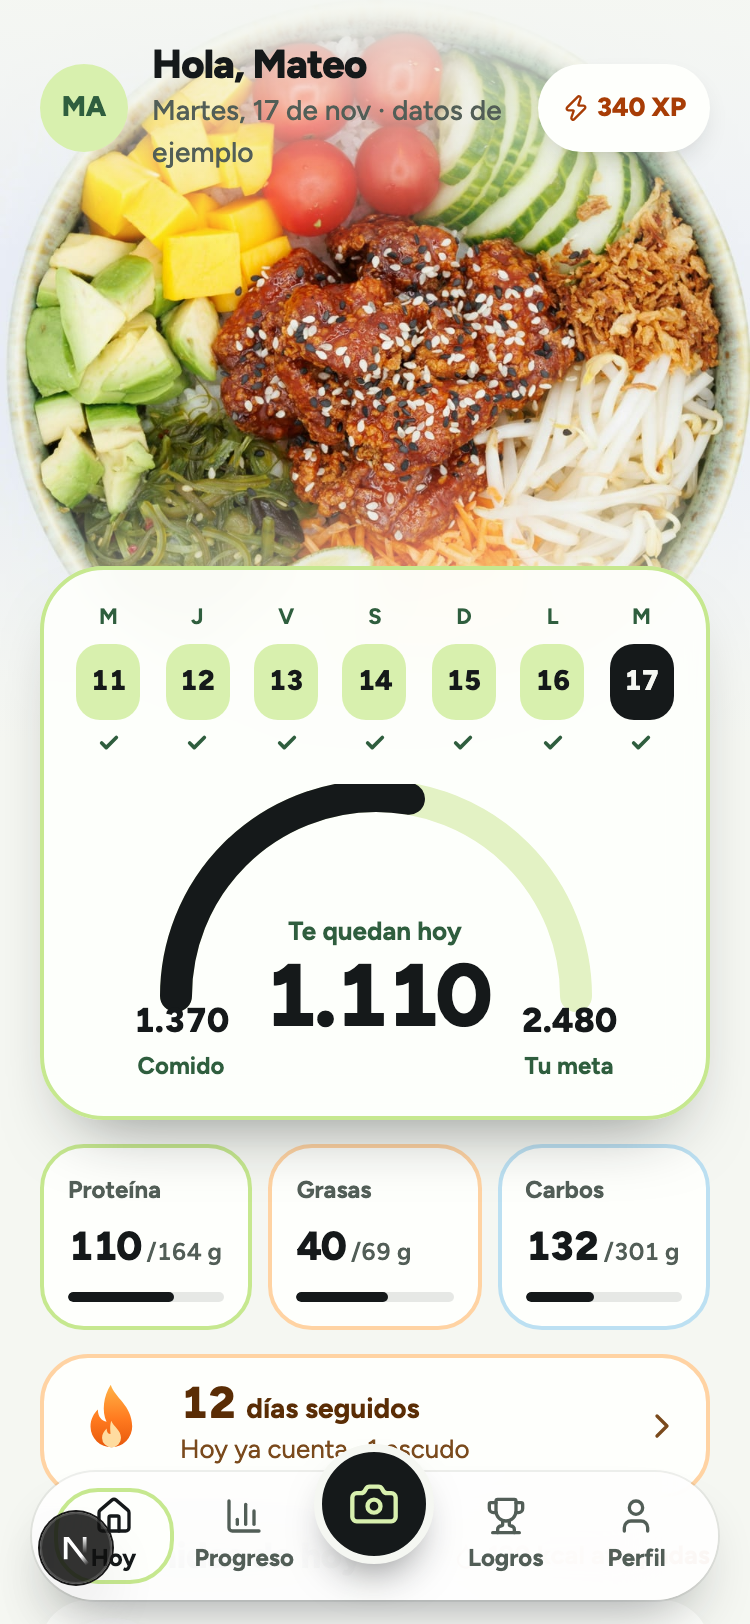
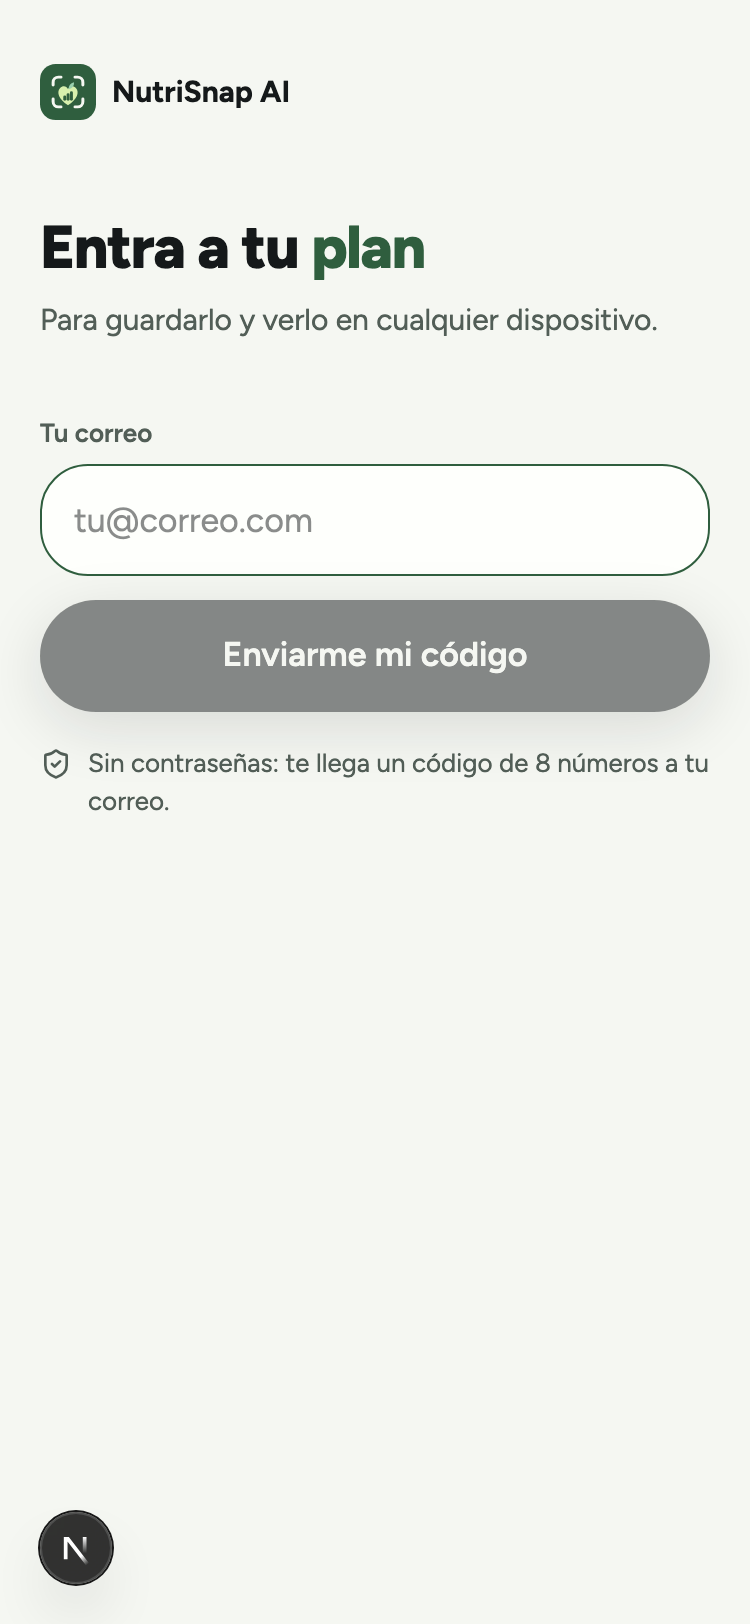
fix: la semana de Hoy abre el calendario de racha; ayudas del panel que funcionan al tocar

diff --git a/components/admin/Tarjeta.tsx b/components/admin/Tarjeta.tsx
@@ -1,14 +1,14 @@
 import type { ReactNode } from 'react';
-import { Info } from 'lucide-react';
+import { Ayuda } from './Ayuda';
 
 /** Tarjeta de métrica: título pequeño con ℹ (qué mide), dato héroe o mensaje honesto («No medido todavía»). */
 export function Tarjeta({ titulo, ayuda, children, icono }: { titulo: string; ayuda: string; children: ReactNode; icono?: ReactNode }) {
   return (
     <section className="hairline-card rounded-[var(--radius-card)] p-5">
       <div className="flex items-start justify-between gap-3">
-        <h2 className="flex items-center gap-1.5 text-[12px] font-bold uppercase tracking-[0.07em] text-[var(--text-secondary)]">
+        <h2 className="flex flex-wrap items-center gap-1 text-[12px] font-bold uppercase tracking-[0.07em] text-[var(--text-secondary)]">
           {titulo}
-          <span title={ayuda} role="img" aria-label={ayuda} className="inline-flex cursor-help text-[var(--text-secondary)]"><Info size={14} aria-hidden="true" /></span>
+          <Ayuda texto={ayuda} />
         </h2>
         {icono && <span className="flex size-9 shrink-0 items-center justify-center rounded-full bg-[var(--lima)] text-[var(--accent)]" aria-hidden="true">{icono}</span>}
       </div>

diff --git a/components/admin/Ayuda.tsx b/components/admin/Ayuda.tsx
@@ -1,0 +1,18 @@
+'use client';
+
+import { useId, useState } from 'react';
+import { Info } from 'lucide-react';
+
+/** Botón ℹ que abre/cierra la explicación al tocar (sirve en celular y con teclado; el «title» nativo solo sirve con ratón). */
+export function Ayuda({ texto }: { texto: string }) {
+  const [abierta, setAbierta] = useState(false);
+  const id = useId();
+  return (
+    <span className="inline-flex flex-col">
+      <button type="button" aria-expanded={abierta} aria-controls={id} aria-label="¿Qué mide esto?" onClick={() => setAbierta((a) => !a)} className="-m-2 inline-flex size-10 items-center justify-center rounded-full text-[var(--text-secondary)]">
+        <Info size={14} aria-hidden="true" />
+      </button>
+      {abierta && <span id={id} role="note" className="mt-1 max-w-[260px] rounded-[12px] bg-[var(--surface-2)] p-2.5 text-[12px] font-medium normal-case leading-snug tracking-normal text-[var(--text-primary)]">{texto}</span>}
+    </span>
+  );
+}

diff --git a/components/app/RachaCard.tsx b/components/app/RachaCard.tsx
@@ -59,6 +59,7 @@ export function SemanaFranja({ d }: { d: AppData }) {
   const hoy = new Date();
   const semana = Array.from({ length: 7 }, (_, k) => { const f = new Date(hoy.getTime() - (6 - k) * 86_400_000); return { letra: LETRAS[f.getDay()], dia: f.getDate(), hecho: d.kcalSemana[k] > 0, esHoy: k === 6 }; });
   return (
+    <Link href="/app/racha" aria-label="Ver tu calendario de racha" className="block rounded-[20px]">
     <ol aria-label="Últimos 7 días" className="grid grid-cols-7 gap-1 text-center">
       {semana.map((x, i) => (
         <motion.li key={i} initial={{ opacity: 0, y: 6 }} animate={{ opacity: 1, y: 0 }} transition={{ duration: 0.25, delay: 0.05 * i, ease: EASE }}>
@@ -68,5 +69,6 @@ export function SemanaFranja({ d }: { d: AppData }) {
         </motion.li>
       ))}
     </ol>
+    </Link>
   );
 }
